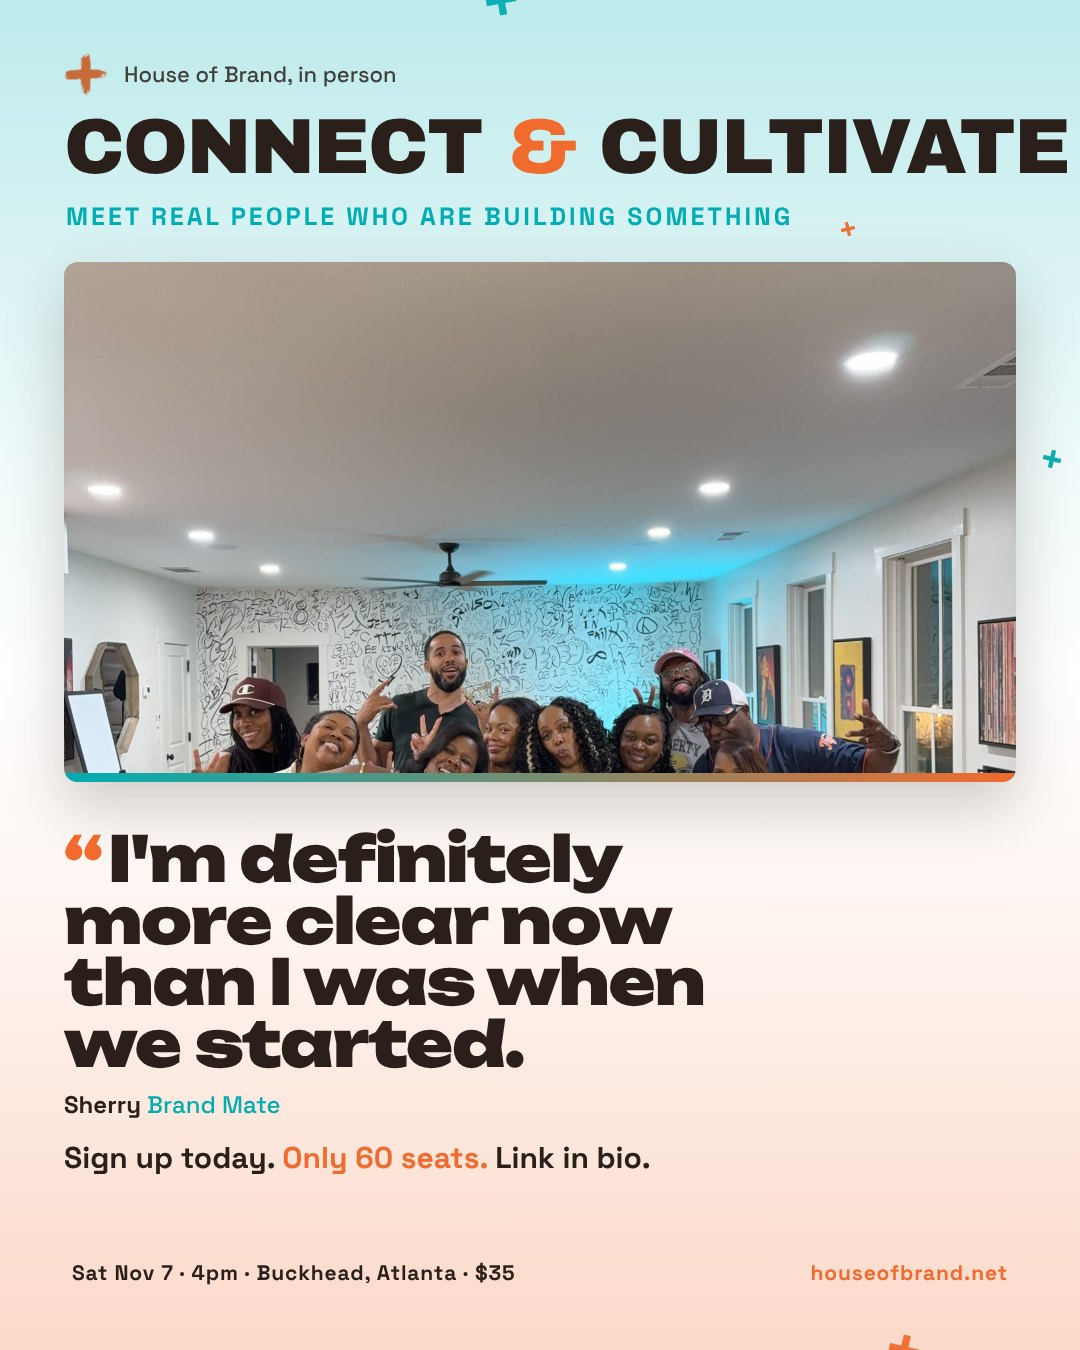
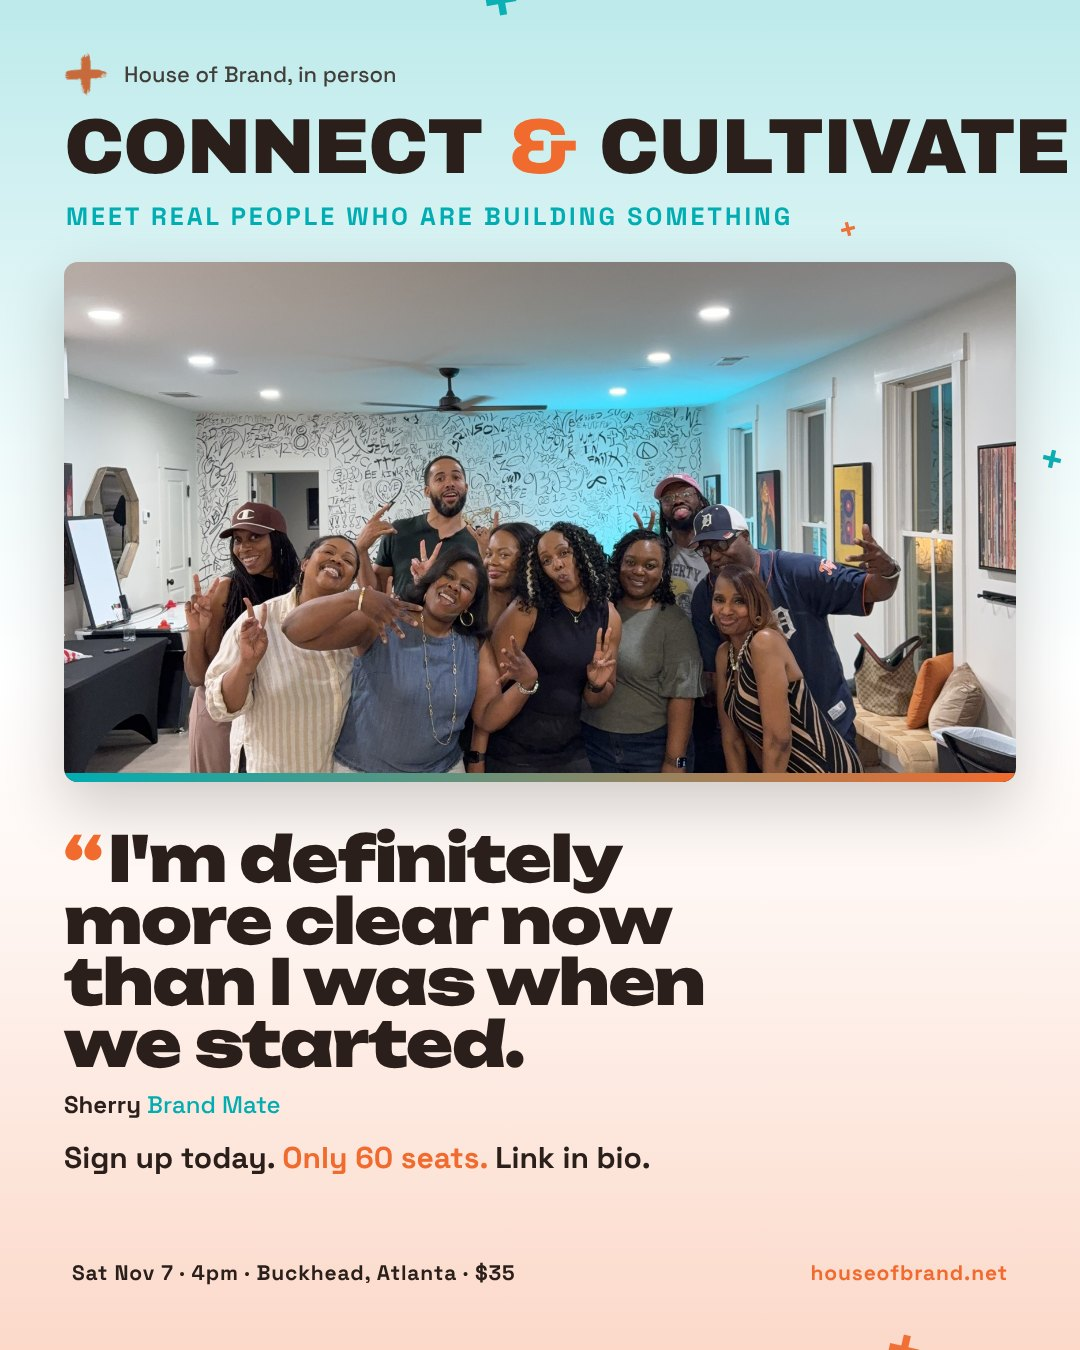
C&C: Bradley and Rod quotes, Natasha moved to Nov 7, crop aim fixes
Claude-Session: https://claude.ai/code/session_015paDzdUoGfUoZxrfmXRHj2

Changed region(s): [[0.0611, 0.2178, 0.9472, 0.5911], [0.4583, 0.1867, 0.6111, 0.2178], [0.0611, 0.2178, 0.1528, 0.2489]]

diff --git a/tools/build_hob.py b/tools/build_hob.py
@@ -300,7 +300,7 @@ T.update(say=t_say)
 FACES = json.load(open(BDIR / 'faces.json')) if (BDIR / 'faces.json').exists() else {}
 from PIL import Image as _PI
 _DIM = {}
-def face_pos(name, override=None, box=(952, 560)):
+def face_pos(name, override=None, box=(952, 560), aim=.46):
     """Background-position (px) so the mean face center sits at the middle of a cover-fit box."""
     if override: return override
     f = FACES.get(name)
@@ -309,7 +309,7 @@ def face_pos(name, override=None, box=(952, 560)):
     sc = max(bw / iw, bh / ih); sw, sh = iw * sc, ih * sc
     fx = (f['cx'] / 100 if f and f.get('n') else .5); fy = (f['cy'] / 100 if f and f.get('n') else .42)
     # heads sit above face centers; aim the face a bit above box center
-    ox = min(max(fx * sw - bw / 2, 0), sw - bw); oy = min(max(fy * sh - bh * .46, 0), sh - bh)
+    ox = min(max(fx * sw - bw / 2, 0), sw - bw); oy = min(max(fy * sh - bh * aim, 0), sh - bh)
     return f"-{ox:.0f}px -{oy:.0f}px"
 
 def _gx(day):
@@ -347,7 +347,7 @@ def t_flyer(d, idx=1, total=1):
     <div class="brand" style="top:52px"><img src="file://{LOGO}" style="width:44px;height:auto;display:block"><div style="font-family:'Space Grotesk';font-weight:500;font-size:22px;color:{P['ink']};opacity:.85">House of Brand, in person</div></div>
     <div style="position:absolute;left:64px;right:64px;top:108px;font-family:'Archivo Black';font-size:{B.get('title_size',80)}px;line-height:1;letter-spacing:-.02em;color:{P['ink']};text-transform:uppercase;white-space:nowrap">{title.replace('&','<span style="color:'+P['orange']+'">&amp;</span>')}</div>
     <div style="position:absolute;left:66px;top:{108+B.get('title_size',80)+14}px;font-family:'Space Grotesk';font-weight:700;font-size:25px;letter-spacing:.12em;text-transform:uppercase;color:{P['teal']}">{esc(sub)}</div>
-    <div style="position:absolute;left:64px;right:64px;top:{d.get('ptop',262)}px;height:{ph}px;border-radius:14px;overflow:hidden;box-shadow:0 24px 60px rgba(42,31,26,.22)"><div style="position:absolute;inset:0;{photo(d['photo'], face_pos(d['photo'], d.get('pos'), (952, ph)))}background-size:cover"></div>
+    <div style="position:absolute;left:64px;right:64px;top:{d.get('ptop',262)}px;height:{ph}px;border-radius:14px;overflow:hidden;box-shadow:0 24px 60px rgba(42,31,26,.22)"><div style="position:absolute;inset:0;{photo(d['photo'], face_pos(d['photo'], d.get('pos'), (952, ph), d.get('aim', .46)))}background-size:cover"></div>
       <div style="position:absolute;left:0;right:0;bottom:0;height:9px;background:linear-gradient(90deg,{P['teal']},{P['orange']})"></div></div>
     <div class="pad" style="top:{d.get('ptop',262)+ph+46}px;left:64px;right:64px">
       {f'<div class="kick" style="margin-bottom:12px;color:{P["orange"]}">{esc(d["kicker"])}</div>' if d.get('kicker') else ''}
